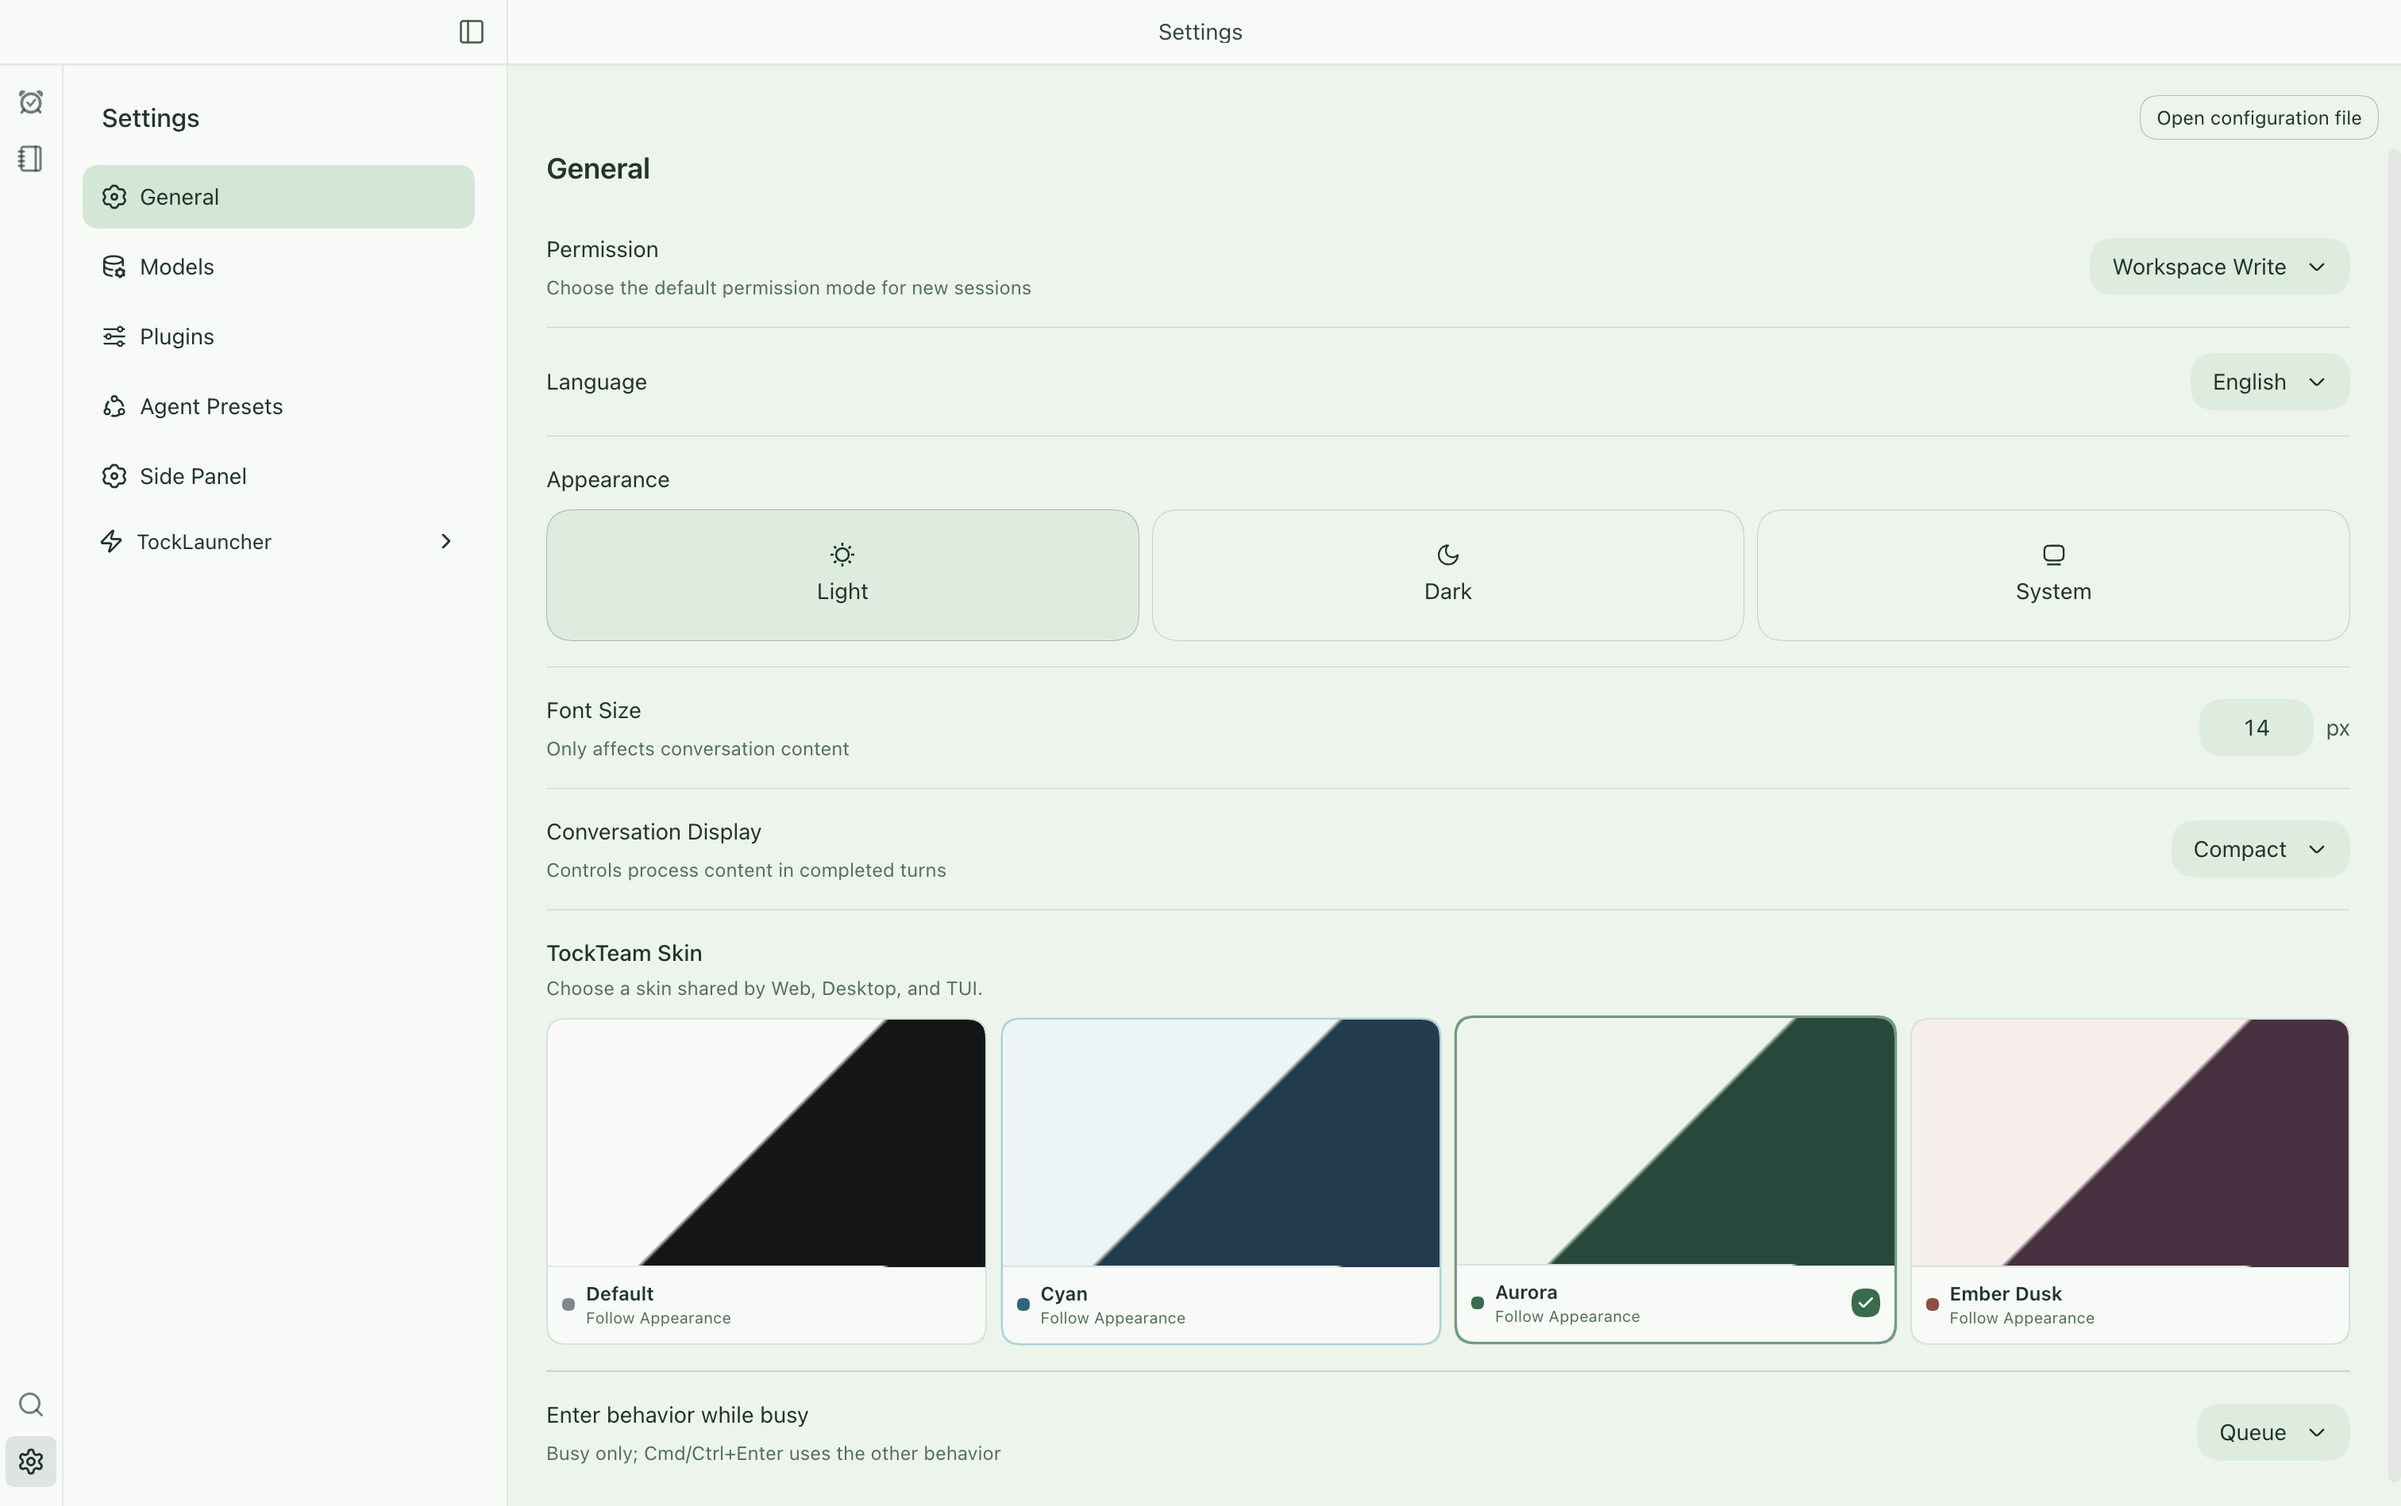
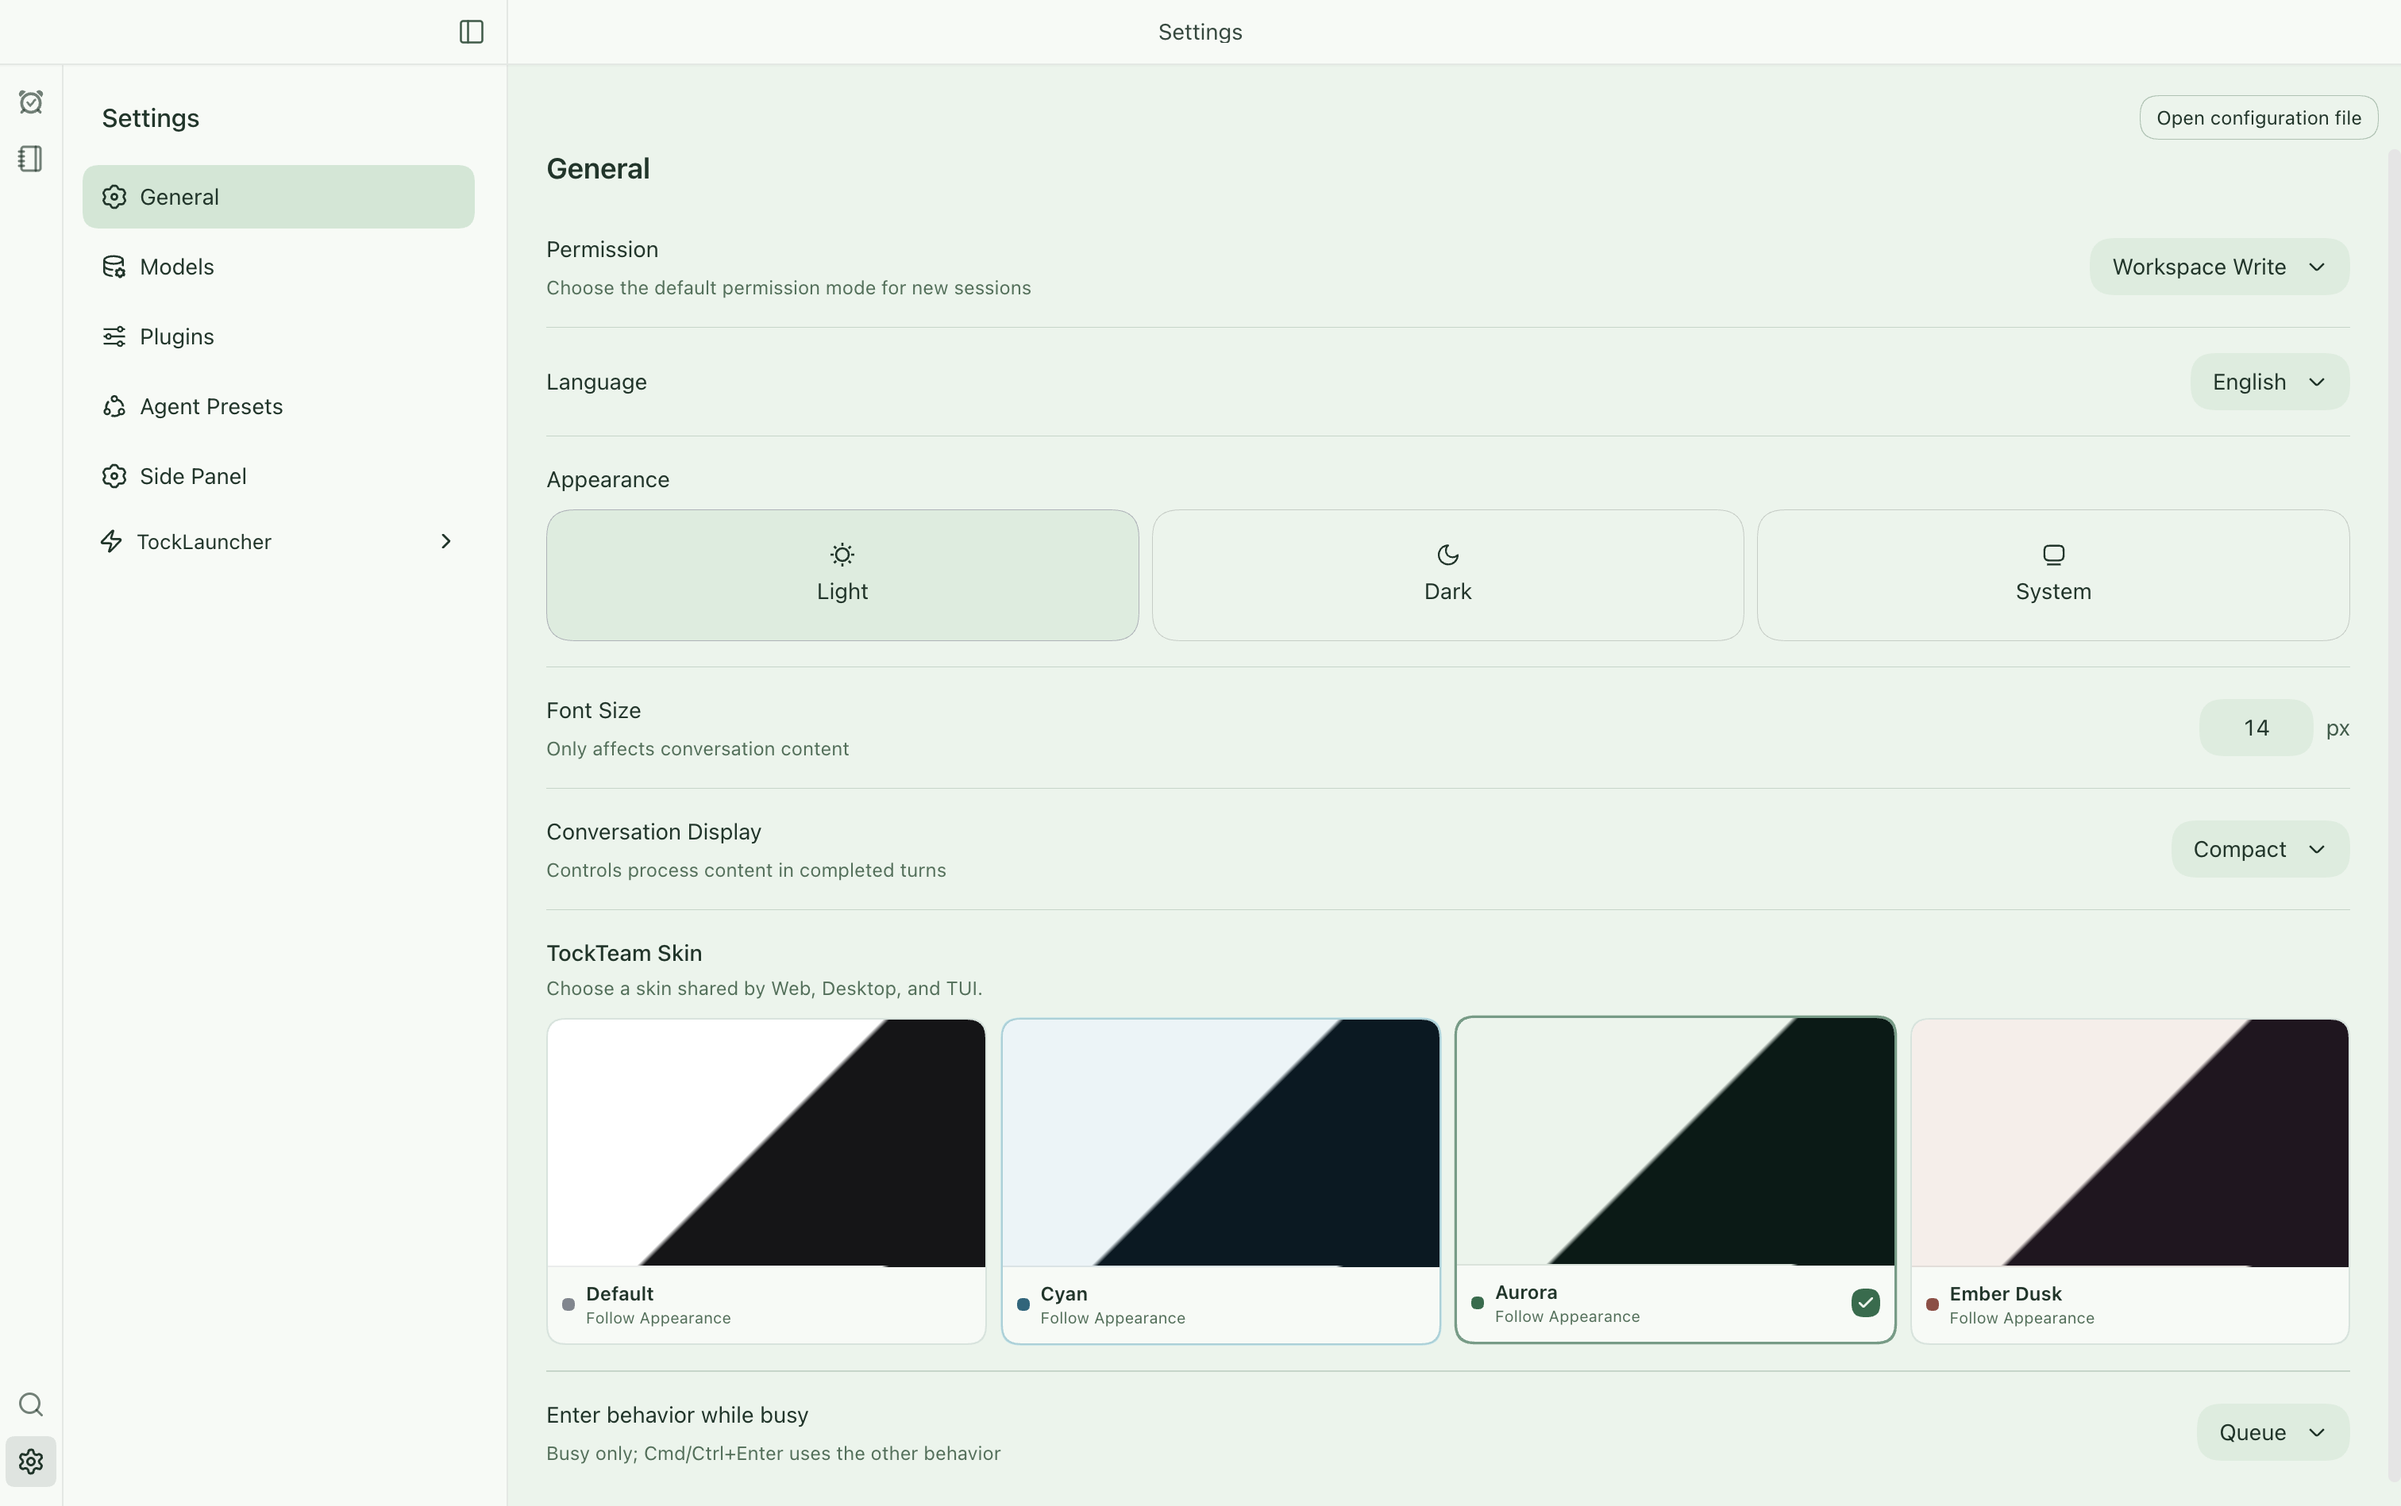
Show exact editor colors in skin gallery

Changed region(s): [[0.6528, 0.6528, 0.8082, 0.8393], [0.4663, 0.6528, 0.6217, 0.8393], [0.8393, 0.6528, 0.9947, 0.8393]]

diff --git a/tests/skins-gallery.test.ts b/tests/skins-gallery.test.ts
@@ -67,8 +67,9 @@ test('shows four skin rows with verified Light-left and Dark-right captures', ()
       assert.equal(capture.allCardsVerified, true, file)
       const skin = TOCKTEAM_SKINS.find(choice => choice.id === skinId)
       assert.equal(capture.preview?.name, label, file)
-      assert.equal(capture.preview.light, skin?.palettes.light.tokens['--dsw-alias-bg-base'] ?? '#fafafa', file)
-      assert.equal(capture.preview.dark, skin?.palettes.dark.tokens['--dsw-alias-bg-overlay'] ?? '#151517', file)
+      assert.equal(capture.preview.light, skin?.palettes.light.tokens['--dsw-alias-bg-base'] ?? '#fff', file)
+      assert.equal(capture.preview.dark, skin?.palettes.dark.tokens['--dsw-alias-bg-base'] ?? '#151517', file)
+      assert.equal(capture.colors.pane, capture.preview[mode], `${file} preview must match the editor pane`)
       assert.match(capture.preview.backgroundImage, /^linear-gradient\(135deg, /u, file)
       assert.ok(capture.preview.backgroundImage.includes('49%') && capture.preview.backgroundImage.includes('50%'), file)
       assert.equal(new Set([...capture.preview.backgroundImage.matchAll(/rgb\([^)]+\)/gu)].map(([color]) => color)).size, 2, `${file} must use only two plain colors`)
